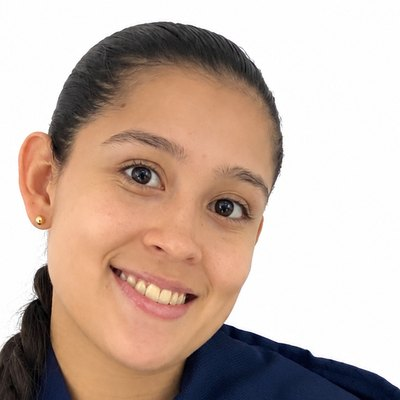
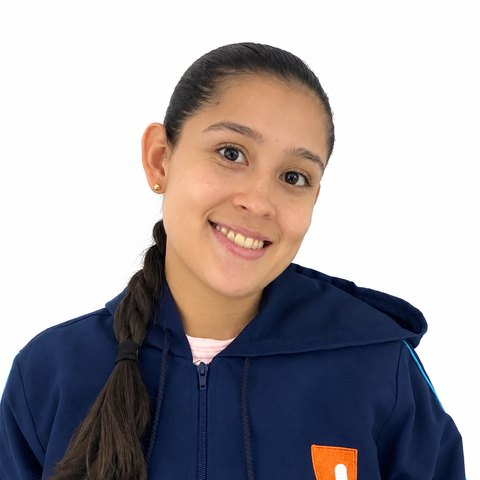
Alejar el encuadre de la foto para mostrar más de la persona
Claude-Session: https://claude.ai/code/session_01Naga49HoLdT85NfZSuZApQ

diff --git a/quienes-somos.html b/quienes-somos.html
@@ -174,7 +174,7 @@
         <article class="qs-integrante qs-integrante--coral qs-rev qs-hover" data-integrante>
           <div class="qs-foto">
             <button class="qs-foto__boton" type="button" aria-label="Ver la presentación de la integrante 1" aria-expanded="false" aria-controls="qs-detalle-1">
-              <img class="qs-foto__interno" src="img/integrante-1-centrada.jpg" width="400" height="400" alt="Integrante 1" loading="lazy">
+              <img class="qs-foto__interno" src="img/integrante-1.jpg" width="480" height="480" alt="Integrante 1" loading="lazy">
             </button>
             <span class="qs-foto__etiqueta" aria-hidden="true">FOTO 1</span>
             <span class="qs-foto__insignia" aria-hidden="true">1</span>

diff --git a/index.html b/index.html
@@ -450,7 +450,7 @@
     <section class="seccion contenedor" aria-labelledby="grupo-titulo">
       <div class="tarjeta grupo">
         <div class="grupo__fotos">
-          <span class="foto foto--coral foto--real"><img src="img/integrante-1.jpg" width="400" height="400" alt="Integrante 1 del grupo" loading="lazy"></span>
+          <span class="foto foto--coral foto--real"><img src="img/integrante-1.jpg" width="480" height="480" alt="Integrante 1 del grupo" loading="lazy"></span>
           <span class="foto foto--cielo" aria-hidden="true"><span class="dato">Foto</span></span>
           <span class="foto foto--menta" aria-hidden="true"><span class="dato">Foto</span></span>
         </div>
